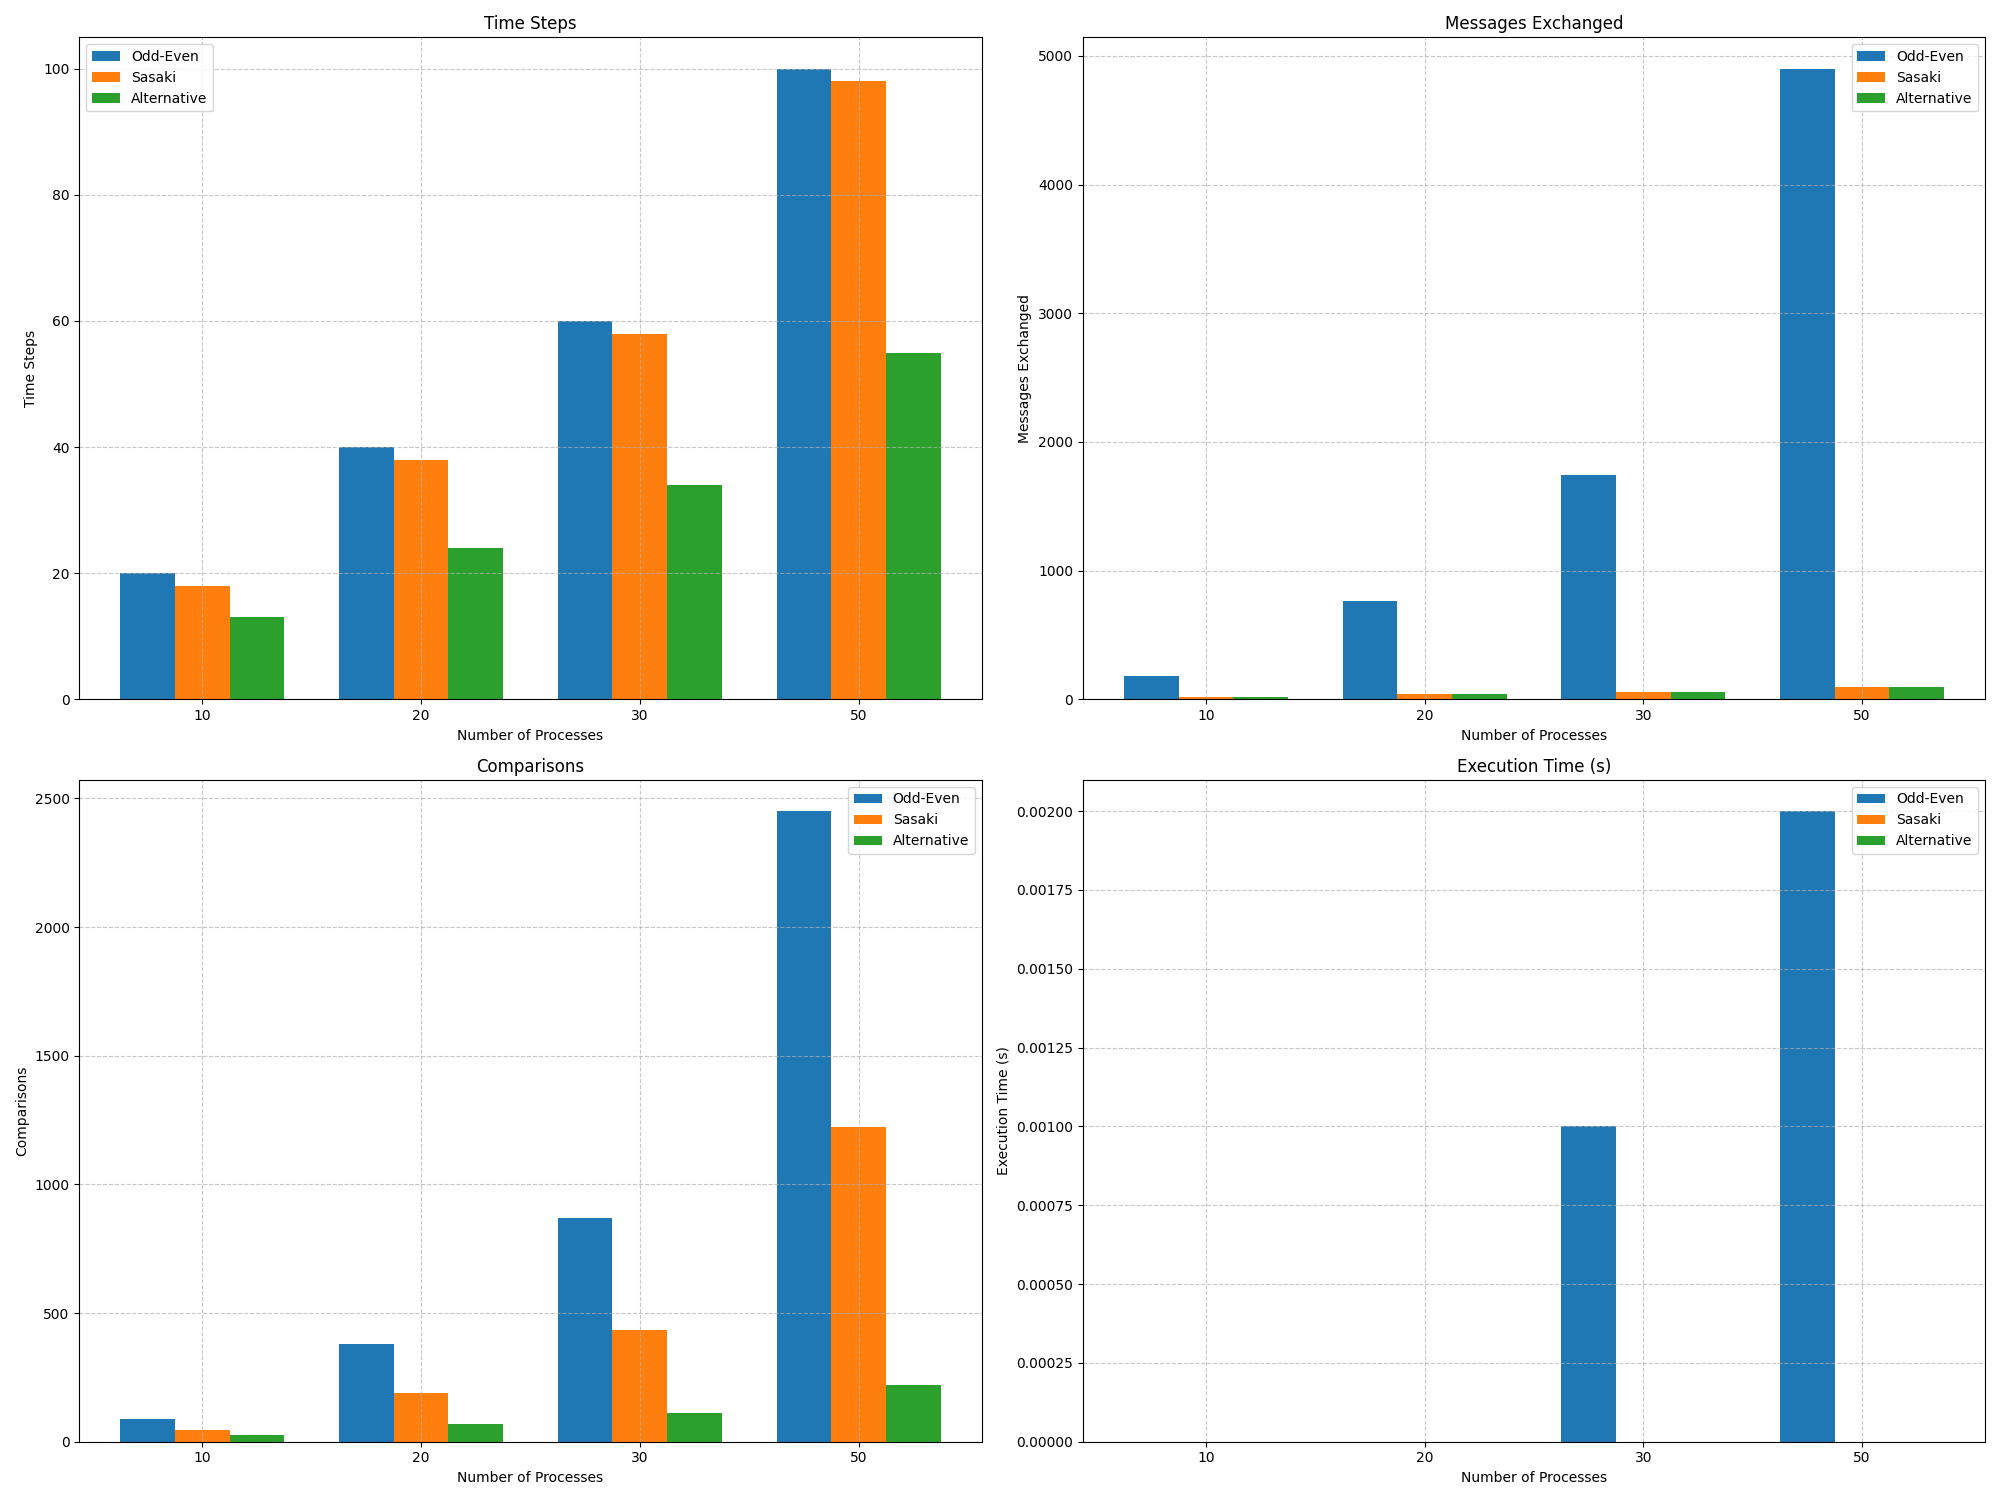
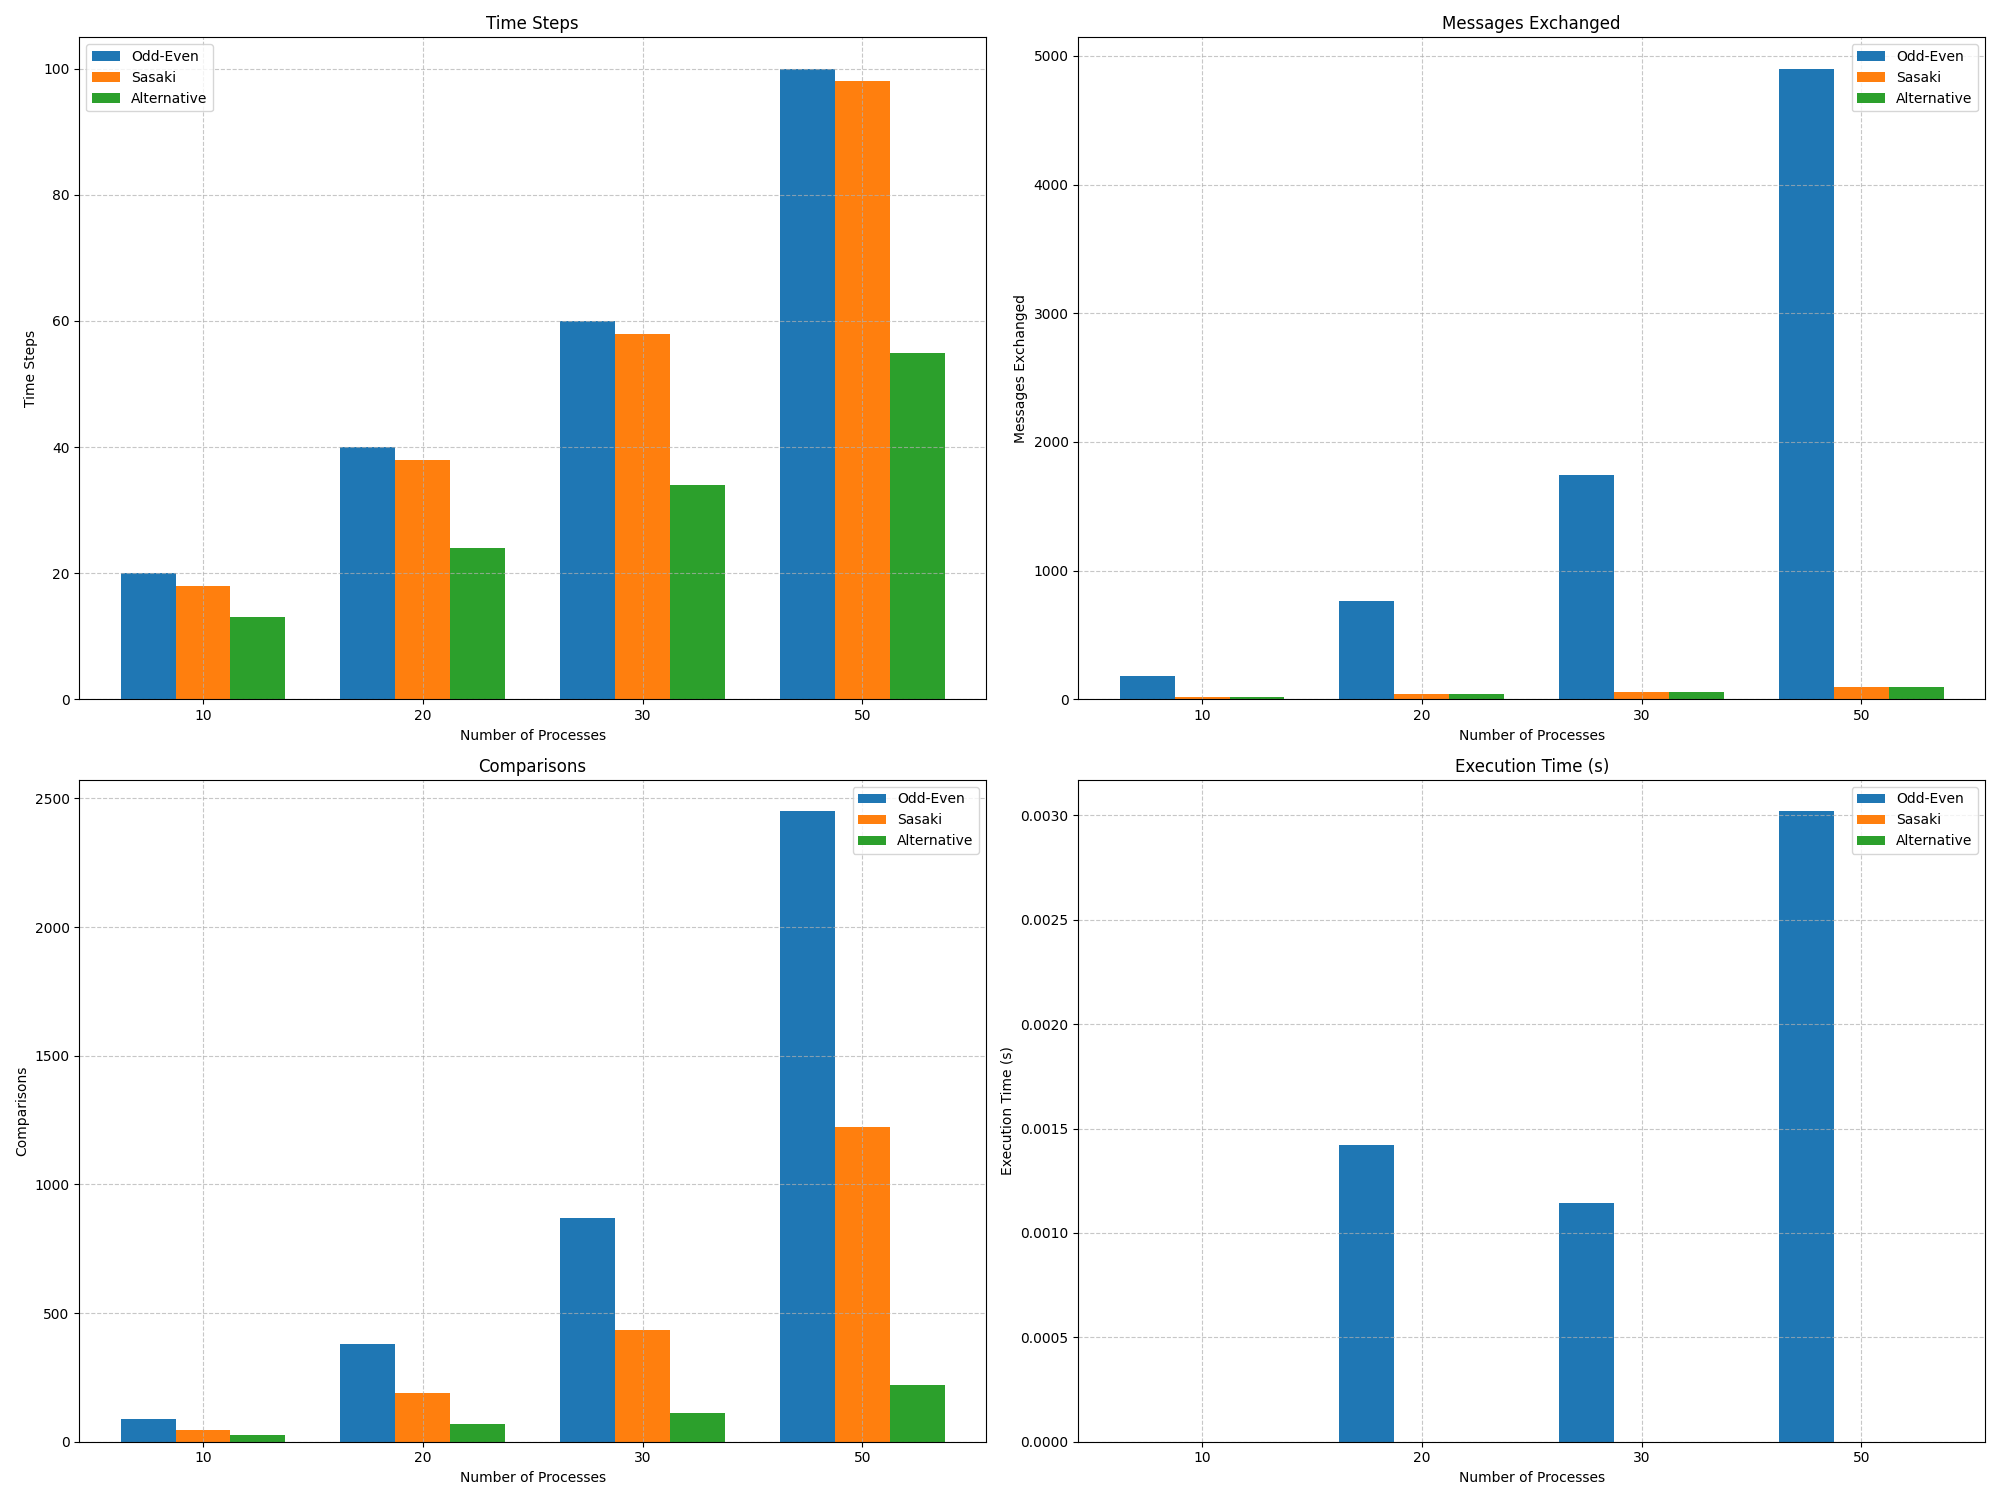
update52

diff --git a/comparison-script.py b/comparison-script.py
@@ -46,26 +46,26 @@ def run_comparison(test_sizes=[10, 20, 30, 50], seed=42):
     
     #Print comprehensive comparison table
     print("\nComprehensive Comparison Table:")
-    print("=" * 120)
-    print(f"{'n':>5} | {'Algorithm':^25} | {'Comparisons':>12} | {'Swaps':>6} | {'Messages':>10} | {'Time Steps':>10} | {'Execution Time (s)':>18}")
-    print("-" * 120)
+    print("=" * 150)
+    print(f"{'n':>5} | {'Algorithm':^25} | {'Comparisons':>12} | {'Swaps':>6} | {'Messages':>10} | {'Time Steps':>10} | {'Execution Time (s)':>18} | {'Time Complexity':>18} | {'Space Complexity':>18}")
+    print("-" * 150)
     
     for size in test_sizes:
         #Odd-Even
         metrics = odd_even_results[size]
-        print(f"{size:>5} | {'Odd-Even Transposition':^25} | {metrics['comparisons']:>12} | {metrics['swaps']:>6} | {metrics['messages']:>10} | {metrics['time_steps']:>10} | {metrics['execution_time']:>18.6f}")
+        print(f"{size:>5} | {'Odd-Even Transposition':^25} | {metrics['comparisons']:>12} | {metrics['swaps']:>6} | {metrics['messages']:>10} | {metrics['time_steps']:>10} | {metrics['execution_time']:>18.6f} | {'O(n^2)':>18} | {'O(n)':>18}")
         
         #Sasaki
         metrics = sasaki_results[size]
-        print(f"{size:>5} | {'Sasaki Time-Optimal':^25} | {metrics['comparisons']:>12} | {metrics['swaps']:>6} | {metrics['messages']:>10} | {metrics['time_steps']:>10} | {metrics['execution_time']:>18.6f}")
+        print(f"{size:>5} | {'Sasaki Time-Optimal':^25} | {metrics['comparisons']:>12} | {metrics['swaps']:>6} | {metrics['messages']:>10} | {metrics['time_steps']:>10} | {metrics['execution_time']:>18.6f} | {'O(n log n)':>18} | {'O(n)':>18}")
         
         #Alternative
         metrics = alternative_results[size]
-        print(f"{size:>5} | {'Alternative Time-Optimal':^25} | {metrics['comparisons']:>12} | {metrics['swaps']:>6} | {metrics['messages']:>10} | {metrics['time_steps']:>10} | {metrics['execution_time']:>18.6f}")
+        print(f"{size:>5} | {'Alternative Time-Optimal':^25} | {metrics['comparisons']:>12} | {metrics['swaps']:>6} | {metrics['messages']:>10} | {metrics['time_steps']:>10} | {metrics['execution_time']:>18.6f} | {'O(n log n)':>18} | {'O(n)':>18}")
         
         #Add separator between size groups
         if size != test_sizes[-1]:
-            print("-" * 120)
+            print("-" * 150)
     
     plot_comparisons(test_sizes, odd_even_results, sasaki_results, alternative_results)
     

diff --git a/odd_even_transposition_sort.py b/odd_even_transposition_sort.py
@@ -102,7 +102,9 @@ class OddEvenTranspositionSort:
             "swaps": self.swaps,
             "messages": self.messages,
             "time_steps": self.time_steps,
-            "execution_time": self.execution_time
+            "execution_time": self.execution_time,
+            "time_complexity": f"O({self.n})",
+            "space_complexity": f"O({self.n})"
         }
 
 def test_odd_even_sort(n, seed=None):
@@ -130,6 +132,8 @@ def test_odd_even_sort(n, seed=None):
     print(f"Messages exchanged: {metrics['messages']}")
     print(f"Time steps: {metrics['time_steps']}")
     print(f"Execution time: {metrics['execution_time']:.6f} seconds")
+    print(f"Time Complexity: {metrics['time_complexity']}")
+    print(f"Space Complexity: {metrics['space_complexity']}")
     print()
     
     return metrics
@@ -147,9 +151,9 @@ if __name__ == "__main__":
     
     #Print comparison table
     print("Comparison Table for Odd-Even Transposition Sort:")
-    print("=" * 80)
-    print(f"{'n':>5} | {'Comparisons':>12} | {'Swaps':>6} | {'Messages':>10} | {'Time Steps':>10} | {'Execution Time (s)':>18}")
-    print("-" * 80)
+    print("=" * 120)
+    print(f"{'n':>5} | {'Comparisons':>12} | {'Swaps':>6} | {'Messages':>10} | {'Time Steps':>10} | {'Execution Time (s)':>18} | {'Time Complexity':>15} | {'Space Complexity':>15}")
+    print("-" * 120)
     
     for size, metrics in results.items():
-        print(f"{size:>5} | {metrics['comparisons']:>12} | {metrics['swaps']:>6} | {metrics['messages']:>10} | {metrics['time_steps']:>10} | {metrics['execution_time']:>18.6f}")
+        print(f"{size:>5} | {metrics['comparisons']:>12} | {metrics['swaps']:>6} | {metrics['messages']:>10} | {metrics['time_steps']:>10} | {metrics['execution_time']:>18.6f} | {metrics['time_complexity']:>15} | {metrics['space_complexity']:>15}")

diff --git a/sasaki_time_optimal_sort.py b/sasaki_time_optimal_sort.py
@@ -116,7 +116,9 @@ class SasakiTimeOptimalSort:
             "swaps": self.swaps,
             "messages": self.messages,
             "time_steps": self.time_steps,
-            "execution_time": self.execution_time
+            "execution_time": self.execution_time,
+            "time_complexity": f"O({self.n})",
+            "space_complexity": f"O({self.n})"
         }
 
 def test_sasaki_sort(n, seed=None):
@@ -144,6 +146,8 @@ def test_sasaki_sort(n, seed=None):
     print(f"Messages exchanged: {metrics['messages']}")
     print(f"Time steps: {metrics['time_steps']}")
     print(f"Execution time: {metrics['execution_time']:.6f} seconds")
+    print(f"Time Complexity: {metrics['time_complexity']}")
+    print(f"Space Complexity: {metrics['space_complexity']}")
     print()
     
     return metrics
@@ -161,9 +165,9 @@ if __name__ == "__main__":
     
     #Print comparison table
     print("Comparison Table for Sasaki's Time-Optimal Sort:")
-    print("=" * 80)
-    print(f"{'n':>5} | {'Comparisons':>12} | {'Swaps':>6} | {'Messages':>10} | {'Time Steps':>10} | {'Execution Time (s)':>18}")
-    print("-" * 80)
+    print("=" * 120)
+    print(f"{'n':>5} | {'Comparisons':>12} | {'Swaps':>6} | {'Messages':>10} | {'Time Steps':>10} | {'Execution Time (s)':>18} | {'Time Complexity':>15} | {'Space Complexity':>15}")
+    print("-" * 120)
     
     for size, metrics in results.items():
-        print(f"{size:>5} | {metrics['comparisons']:>12} | {metrics['swaps']:>6} | {metrics['messages']:>10} | {metrics['time_steps']:>10} | {metrics['execution_time']:>18.6f}")
+        print(f"{size:>5} | {metrics['comparisons']:>12} | {metrics['swaps']:>6} | {metrics['messages']:>10} | {metrics['time_steps']:>10} | {metrics['execution_time']:>18.6f} | {metrics['time_complexity']:>15} | {metrics['space_complexity']:>15}")

diff --git a/alternative_time_optimal_sort.py b/alternative_time_optimal_sort.py
@@ -164,6 +164,8 @@ def test_alternative_sort(n, seed=None):
     print(f"Messages exchanged: {metrics['messages']}")
     print(f"Time steps: {metrics['time_steps']}")
     print(f"Execution time: {metrics['execution_time']:.6f} seconds")
+    print(f"Time Complexity: O(log({n}))")
+    print(f"Space Complexity: O({n})")
     print()
     
     return metrics
@@ -181,9 +183,9 @@ if __name__ == "__main__":
     
     # Print comparison table
     print("Comparison Table for Alternative Time-Optimal Sort:")
-    print("=" * 80)
-    print(f"{'n':>5} | {'Comparisons':>12} | {'Swaps':>6} | {'Messages':>10} | {'Time Steps':>10} | {'Execution Time (s)':>18}")
-    print("-" * 80)
+    print("=" * 120)
+    print(f"{'n':>5} | {'Comparisons':>12} | {'Swaps':>6} | {'Messages':>10} | {'Time Steps':>10} | {'Execution Time (s)':>18} | {'Time Complexity':>18} | {'Space Complexity':>18}")
+    print("-" * 120)
     
     for size, metrics in results.items():
-        print(f"{size:>5} | {metrics['comparisons']:>12} | {metrics['swaps']:>6} | {metrics['messages']:>10} | {metrics['time_steps']:>10} | {metrics['execution_time']:>18.6f}")
+        print(f"{size:>5} | {metrics['comparisons']:>12} | {metrics['swaps']:>6} | {metrics['messages']:>10} | {metrics['time_steps']:>10} | {metrics['execution_time']:>18.6f} | {'O(log(' + str(size) + '))':>18} | {'O(' + str(size) + ')':>18}")
